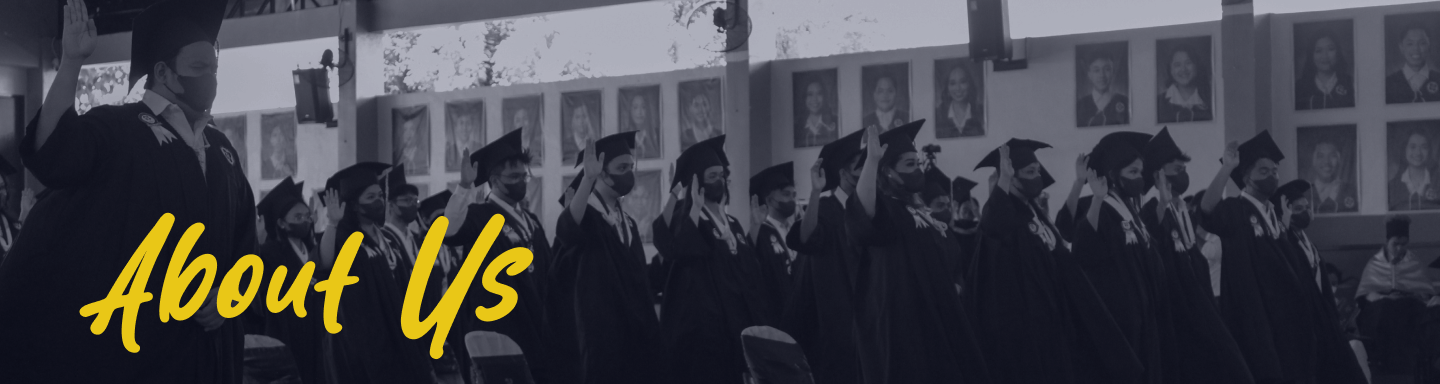
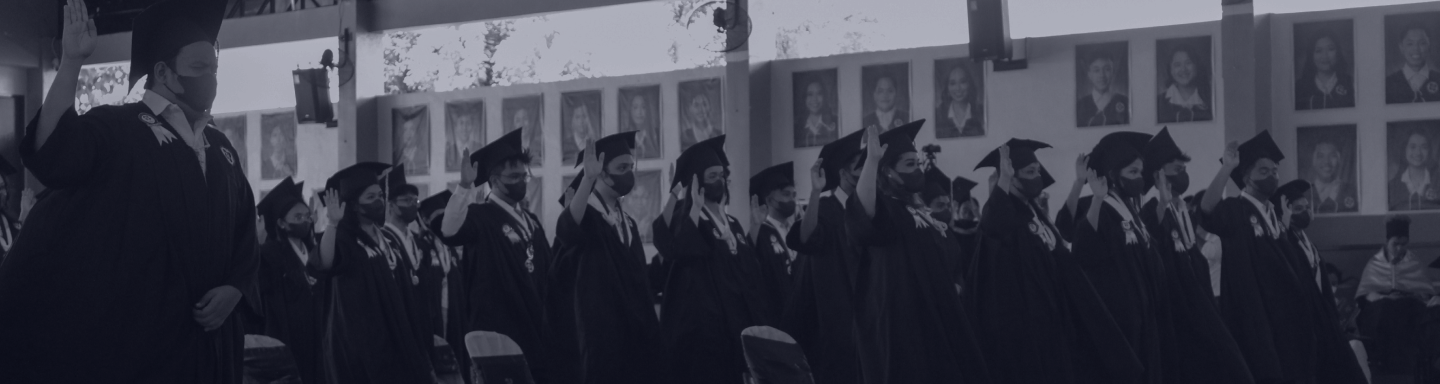
similar to contact us header

Changed region(s): [[0.0312, 0.5625, 0.25, 0.9062], [0.2812, 0.5625, 0.375, 0.9375]]

diff --git a/src/app/about/page.tsx b/src/app/about/page.tsx
@@ -3,7 +3,7 @@ import Image from "next/image";
 const About = () => {
   return (
     <>
-      <div className="aspect-[1440/384] w-full relative">
+      <div className="h-[9rem] md:h-[20rem] px-9 md:px-20 py-4 relative flex flex-col justify-end">
         <Image
           fill
           alt="header"
@@ -11,6 +11,9 @@ const About = () => {
           className="object-cover"
           unoptimized={true}
         />
+        <h1 className="text-mingor-yellow text-4xl md:text-[5.5rem] font-bitcheese md:mb-12 relative">
+          About Us
+        </h1>
       </div>
       <div className="px-8 sm:px-16 md:px-28 lg:px-36 py-8 md:py-14 lg:py-20 font-gotham text-justify">
         <section>
@@ -29,9 +32,9 @@ const About = () => {
           </p>
         </section>
         <section className="my-16 sm:my-20 md:my-28 lg:my-40">
-          <h1 className="font-bitcheese text-center text-mingor-blue-200 font-normal text-4xl sm:text-5xl md:text-7xl lg:text-8xl">
+          <h2 className="font-bitcheese text-center text-mingor-blue-200 font-normal text-4xl sm:text-5xl md:text-7xl lg:text-8xl">
             Gayang Mingor?
-          </h1>
+          </h2>
           <p className="my-8 sm:my-10 md:my-14 lg:my-16 text-sm md:text-lg lg:text-3xl">
             While believed to represent “Eagle Warrior”, its precise origin and
             meaning remain a mystery. The closest approximation is the Kalinga
